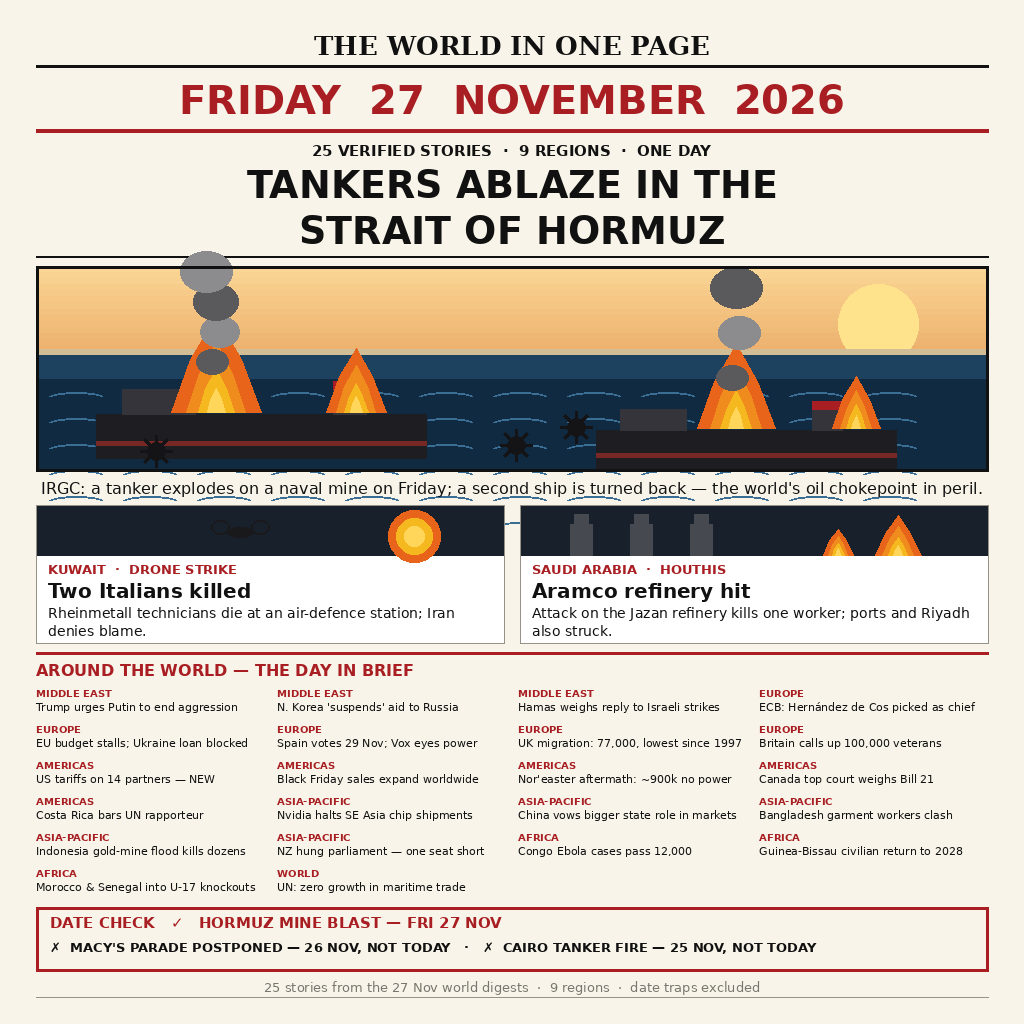
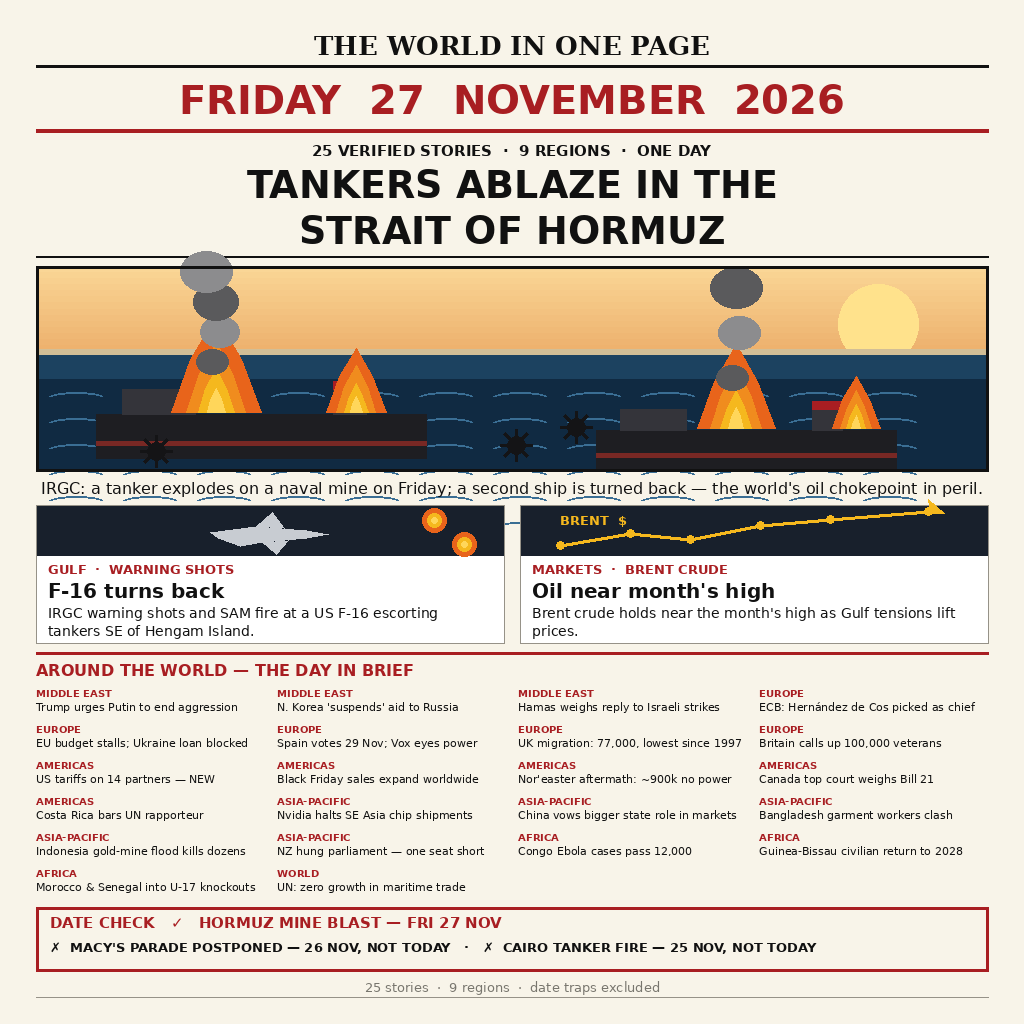
Fix misdated panels: F-16 Hengam warning shots + Brent crude replace Kuwait drone strike and Houthi/Jazan refinery (both 26 Nov, not 27 Nov); footer now '25 stories · 9 regions · date traps excluded'

diff --git a/README.md b/README.md
@@ -6,8 +6,8 @@
 
 A dense but legible newspaper front page summing up **Friday 27 November 2026** in
 one image. Hero: tankers ablaze in the Strait of Hormuz after hitting naval
-mines. Below it, the Kuwait drone strike and the Houthi attack on Aramco's Jazan
-refinery, then a region-grouped day-in-brief band covering all 25 verified
+mines. Below it, the IRGC warning shots at a US F-16 escorting tankers SE of
+Hengam Island and Brent crude near the month's high, then a region-grouped day-in-brief band covering all 25 verified
 stories from 9 regions — plus a DATE CHECK row that names the traps (Macy's
 parade postponement = 26 Nov, Cairo tanker fire = 25 Nov) so they are never
 drawn as 27-Nov news.
